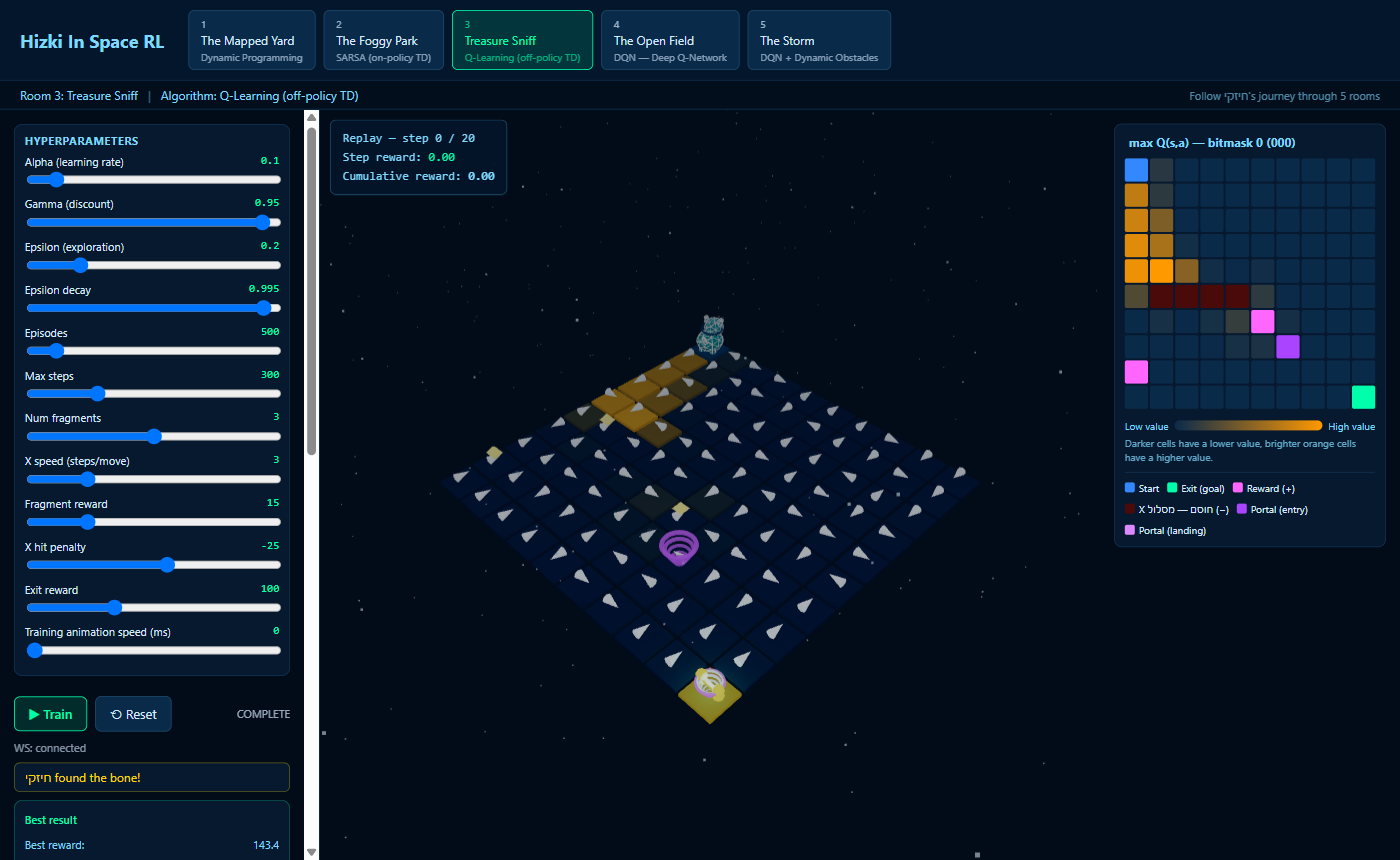
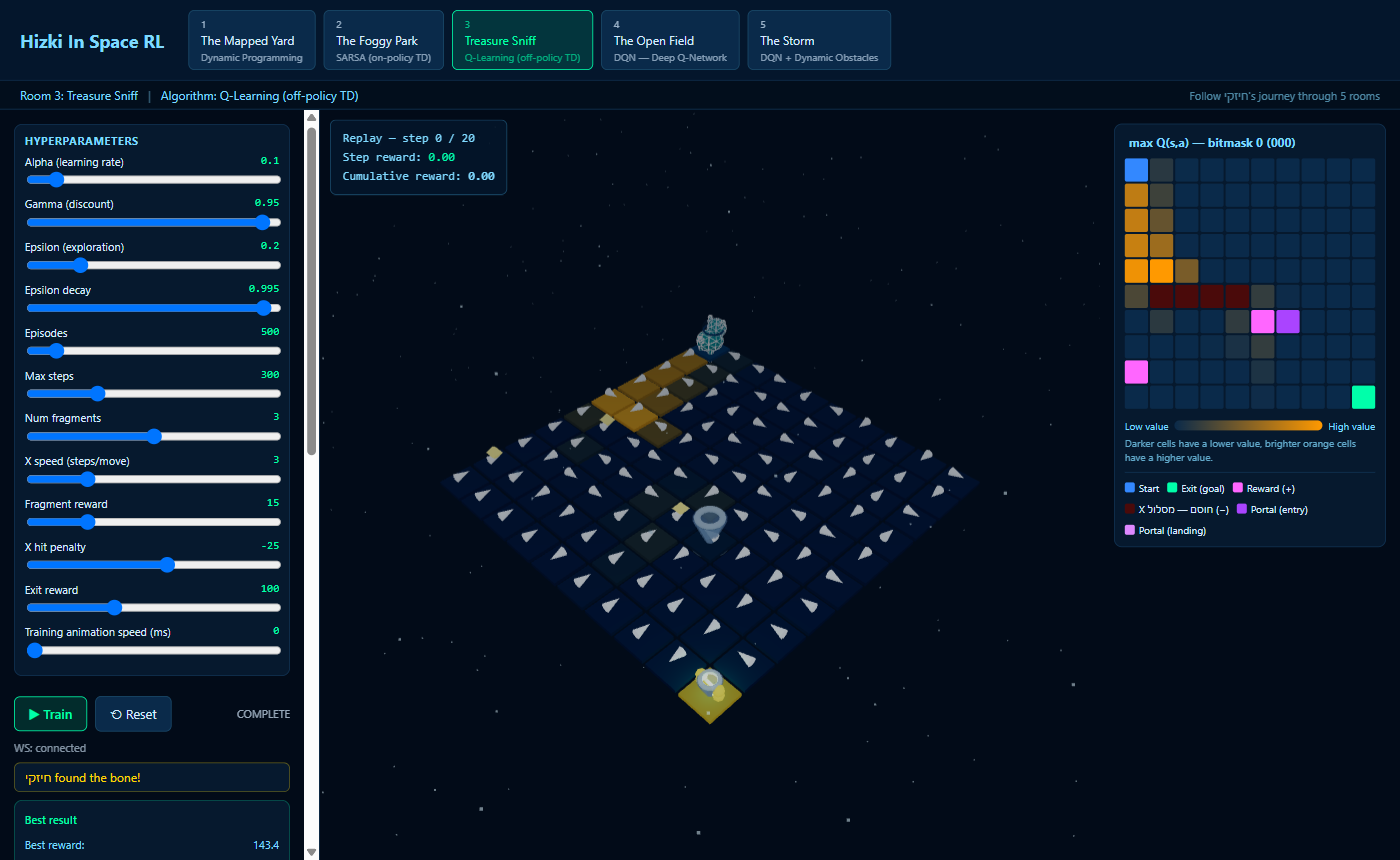
Room 3: redesign tornado — gray-blue funnel with wireframe swirl, new screenshot

diff --git a/frontend/src/components/Hurricane3D.jsx b/frontend/src/components/Hurricane3D.jsx
@@ -1,24 +1,12 @@
 import { useRef } from 'react'
 import { useFrame } from '@react-three/fiber'
 
-// Rings from bottom (narrow) to top (wide) — each slightly twisted
-// so when the parent group rotates they form a continuous spiral.
-const RINGS = [
-  { y: 0.04, r: 0.07, t: 0.018 },
-  { y: 0.15, r: 0.13, t: 0.025 },
-  { y: 0.27, r: 0.19, t: 0.032 },
-  { y: 0.41, r: 0.26, t: 0.040 },
-  { y: 0.56, r: 0.33, t: 0.050 },
-  { y: 0.70, r: 0.40, t: 0.058 },
-]
-
+// Tornado: a funnel cone (wide at top, tip at bottom) with a wireframe
+// overlay that creates a swirling-grid illusion as it spins.
 export default function Hurricane3D({
   position = [0, 0, 0],
   scale = 1,
   speed = 3,
-  color = '#8866ff',
-  emissive = '#5533cc',
-  emissiveIntensity = 1.5,
 }) {
   const ref = useRef()
   useFrame(({ clock }) => {
@@ -27,29 +15,53 @@ export default function Hurricane3D({
 
   return (
     <group ref={ref} position={position} scale={scale}>
-      {/* Tip — tiny cone at the very bottom */}
-      <mesh position={[0, 0.02, 0]} rotation={[Math.PI, 0, 0]}>
-        <coneGeometry args={[0.05, 0.07, 10]} />
-        <meshStandardMaterial color={color} emissive={emissive} emissiveIntensity={emissiveIntensity + 0.5} />
+      {/* Funnel body — solid, semi-transparent gray-blue */}
+      <mesh position={[0, 0.42, 0]}>
+        <cylinderGeometry args={[0.38, 0.03, 0.84, 20, 1, true]} />
+        <meshStandardMaterial
+          color="#7799bb"
+          emissive="#334466"
+          emissiveIntensity={1.2}
+          transparent
+          opacity={0.55}
+          side={2}
+        />
       </mesh>
 
-      {/* Stacked rings, each slightly twisted to form a spiral */}
-      {RINGS.map(({ y, r, t }, i) => (
-        <mesh
-          key={i}
-          position={[0, y, 0]}
-          rotation={[-Math.PI / 2, 0, (i * Math.PI) / RINGS.length]}
-        >
-          <torusGeometry args={[r, t, 8, 30]} />
-          <meshStandardMaterial
-            color={color}
-            emissive={emissive}
-            emissiveIntensity={emissiveIntensity}
-            transparent
-            opacity={0.72 + i * 0.04}
-          />
-        </mesh>
-      ))}
+      {/* Wireframe overlay — grid lines spin → swirl illusion */}
+      <mesh position={[0, 0.42, 0]}>
+        <cylinderGeometry args={[0.40, 0.045, 0.87, 16, 10, true]} />
+        <meshStandardMaterial
+          color="#aabbdd"
+          wireframe
+          transparent
+          opacity={0.40}
+        />
+      </mesh>
+
+      {/* Dust disc at the base */}
+      <mesh position={[0, 0.01, 0]} rotation={[-Math.PI / 2, 0, 0]}>
+        <ringGeometry args={[0.0, 0.48, 28]} />
+        <meshStandardMaterial
+          color="#889aaa"
+          emissive="#334455"
+          emissiveIntensity={0.7}
+          transparent
+          opacity={0.35}
+        />
+      </mesh>
+
+      {/* Cap ring at the top (cloud base) */}
+      <mesh position={[0, 0.87, 0]} rotation={[-Math.PI / 2, 0, 0]}>
+        <torusGeometry args={[0.30, 0.08, 10, 24]} />
+        <meshStandardMaterial
+          color="#aabbcc"
+          emissive="#556677"
+          emissiveIntensity={1.2}
+          transparent
+          opacity={0.85}
+        />
+      </mesh>
     </group>
   )
 }

diff --git a/frontend/src/rooms/Room3_QLearning.jsx b/frontend/src/rooms/Room3_QLearning.jsx
@@ -250,14 +250,7 @@ export default function Room3_QLearning() {
             />
             <DogModel position={dogPos} />
             {portalFlash && (
-              <Hurricane3D
-                position={[dogPos[0], 0, dogPos[2]]}
-                scale={1.1}
-                speed={8}
-                color="#cc44ff"
-                emissive="#aa00ff"
-                emissiveIntensity={3}
-              />
+              <Hurricane3D position={[dogPos[0], 0, dogPos[2]]} scale={1.1} speed={9} />
             )}
             {sharkPos && (() => {
               const [sx, , sz] = gridToWorld(sharkPos[0], sharkPos[1], 0.35)
@@ -265,11 +258,11 @@ export default function Room3_QLearning() {
             })()}
             {bestPortal && (() => {
               const pos = gridToWorld(bestPortal[0], bestPortal[1], 0)
-              return <Hurricane3D position={[pos[0], 0, pos[2]]} speed={3} color="#9955ff" emissive="#6622cc" />
+              return <Hurricane3D position={[pos[0], 0, pos[2]]} speed={3} />
             })()}
             {bestPortalDest && (() => {
               const pos = gridToWorld(bestPortalDest[0], bestPortalDest[1], 0)
-              return <Hurricane3D position={[pos[0], 0, pos[2]]} scale={0.7} speed={-2} color="#cc88ff" emissive="#9944cc" emissiveIntensity={1.0} />
+              return <Hurricane3D position={[pos[0], 0, pos[2]]} scale={0.65} speed={-2} />
             })()}
           </Scene3D>
           <OutcomeFlash outcome={flashOutcome} />